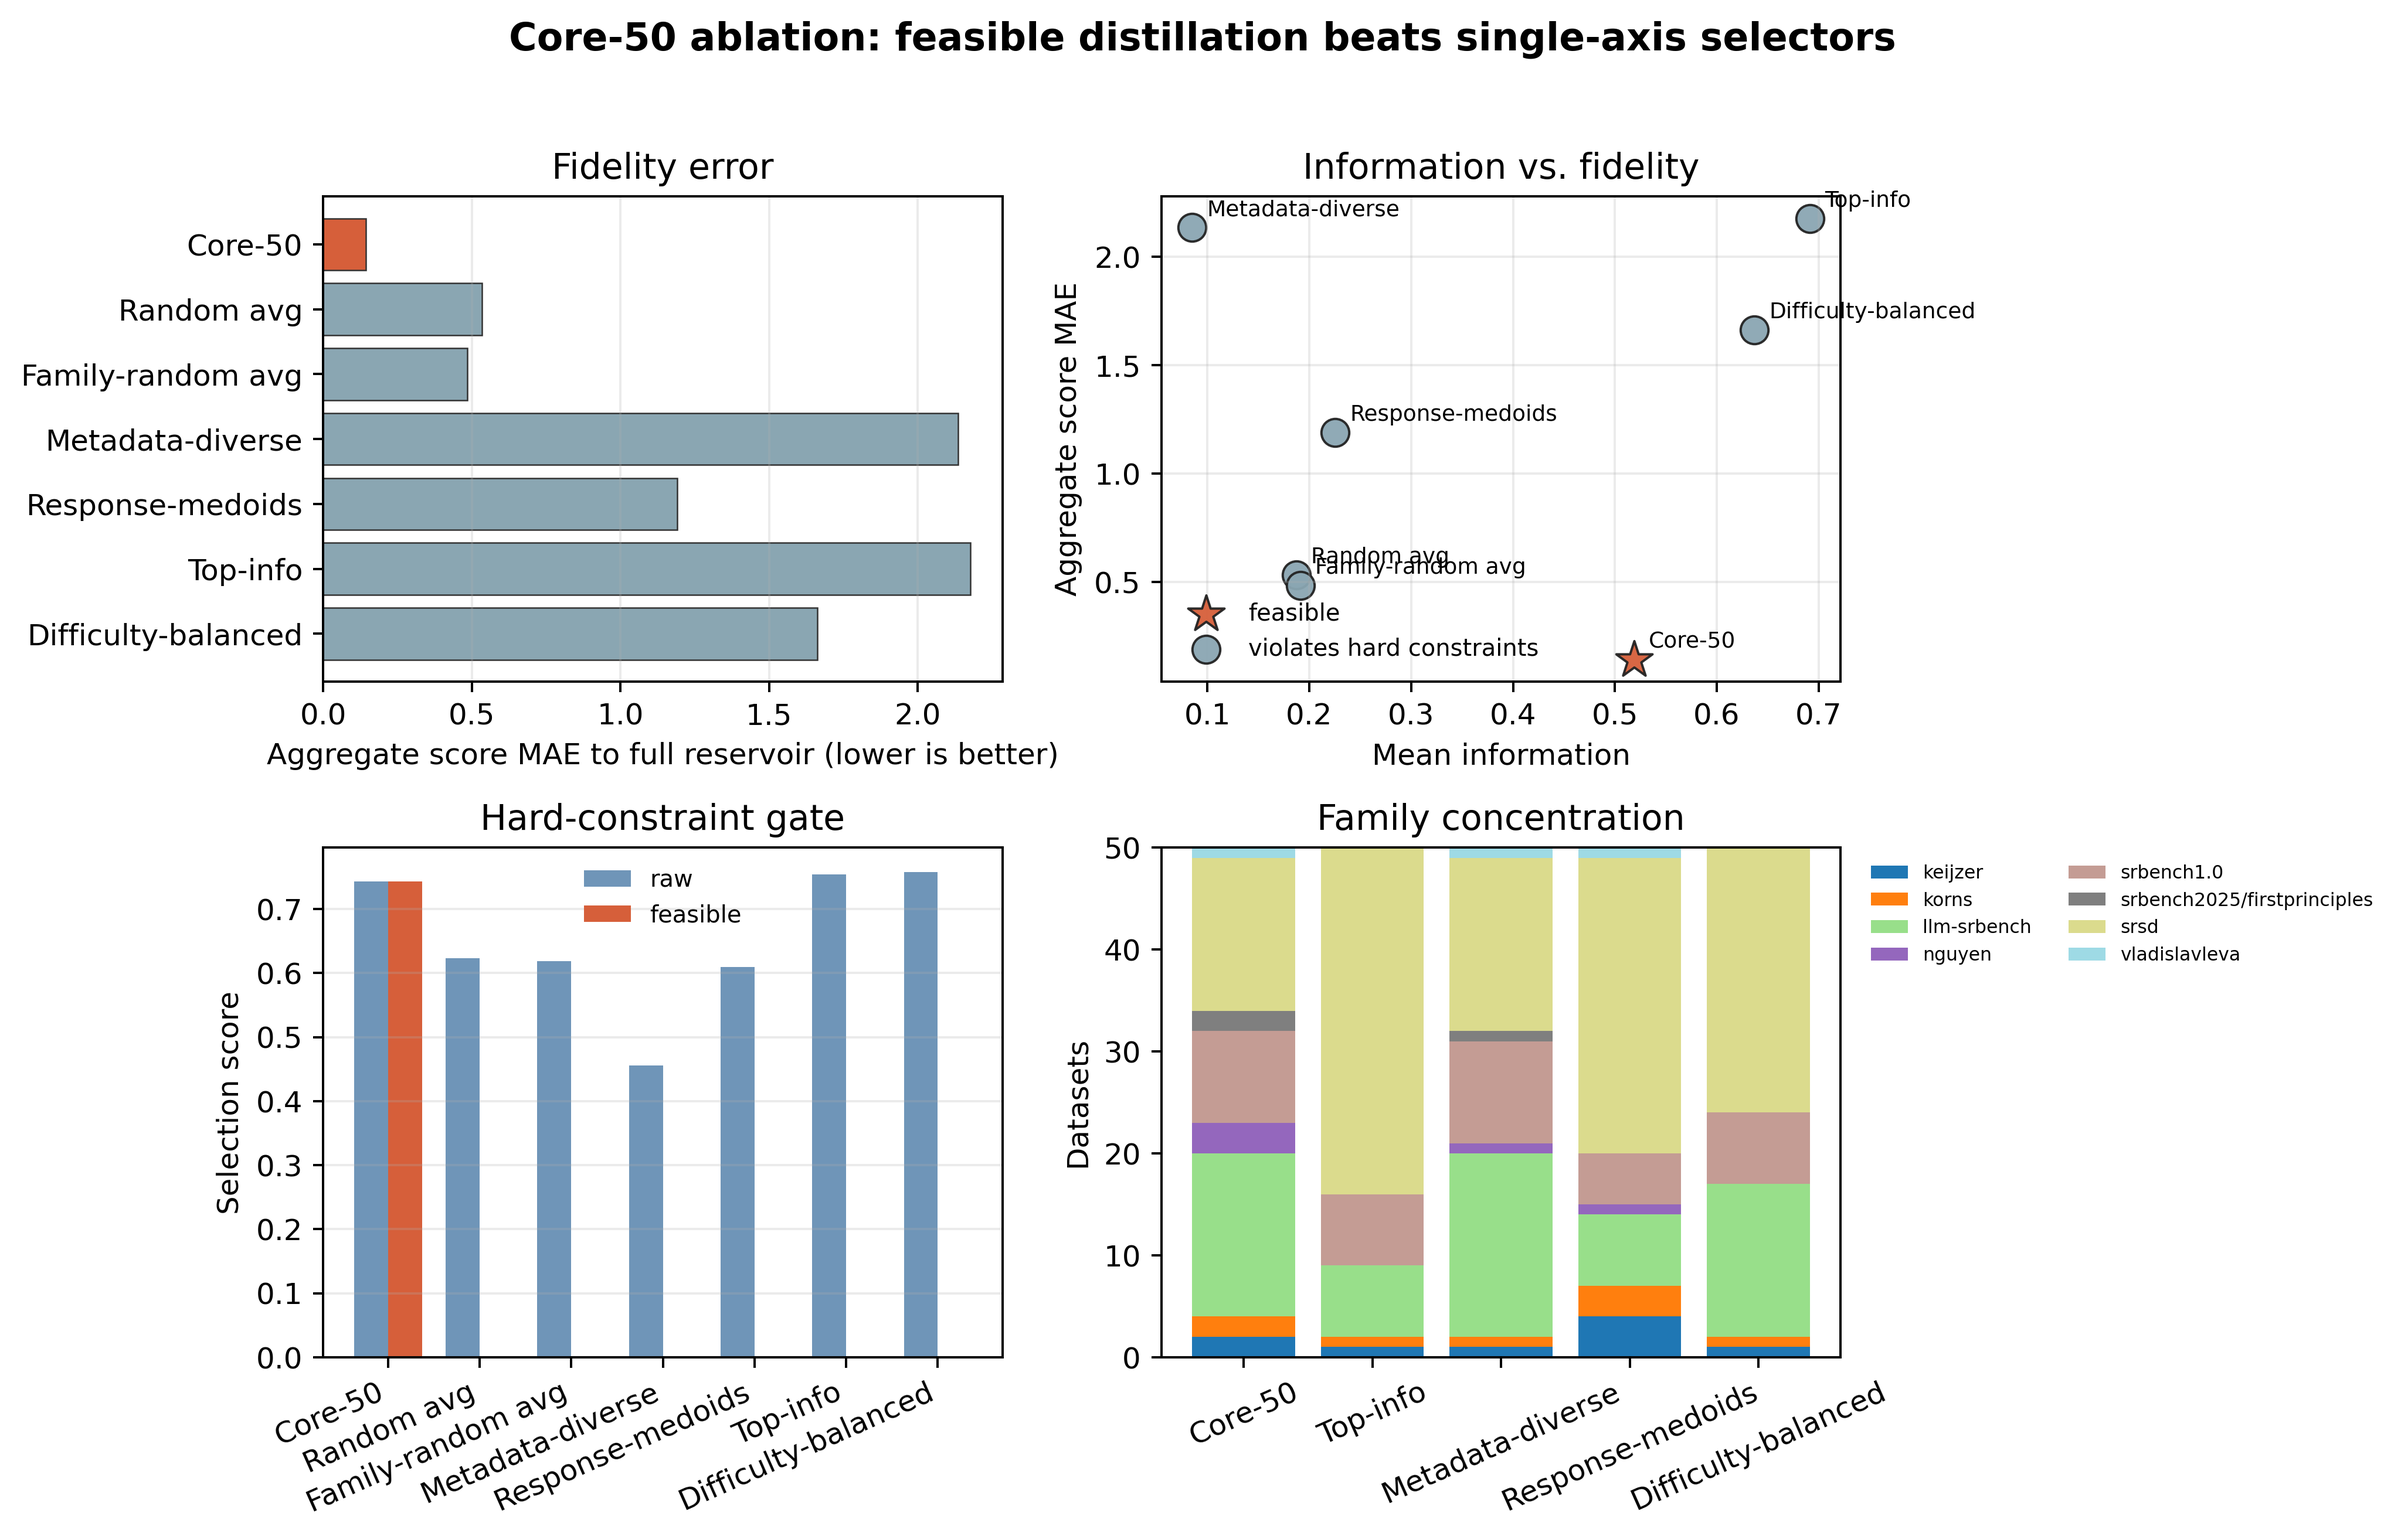
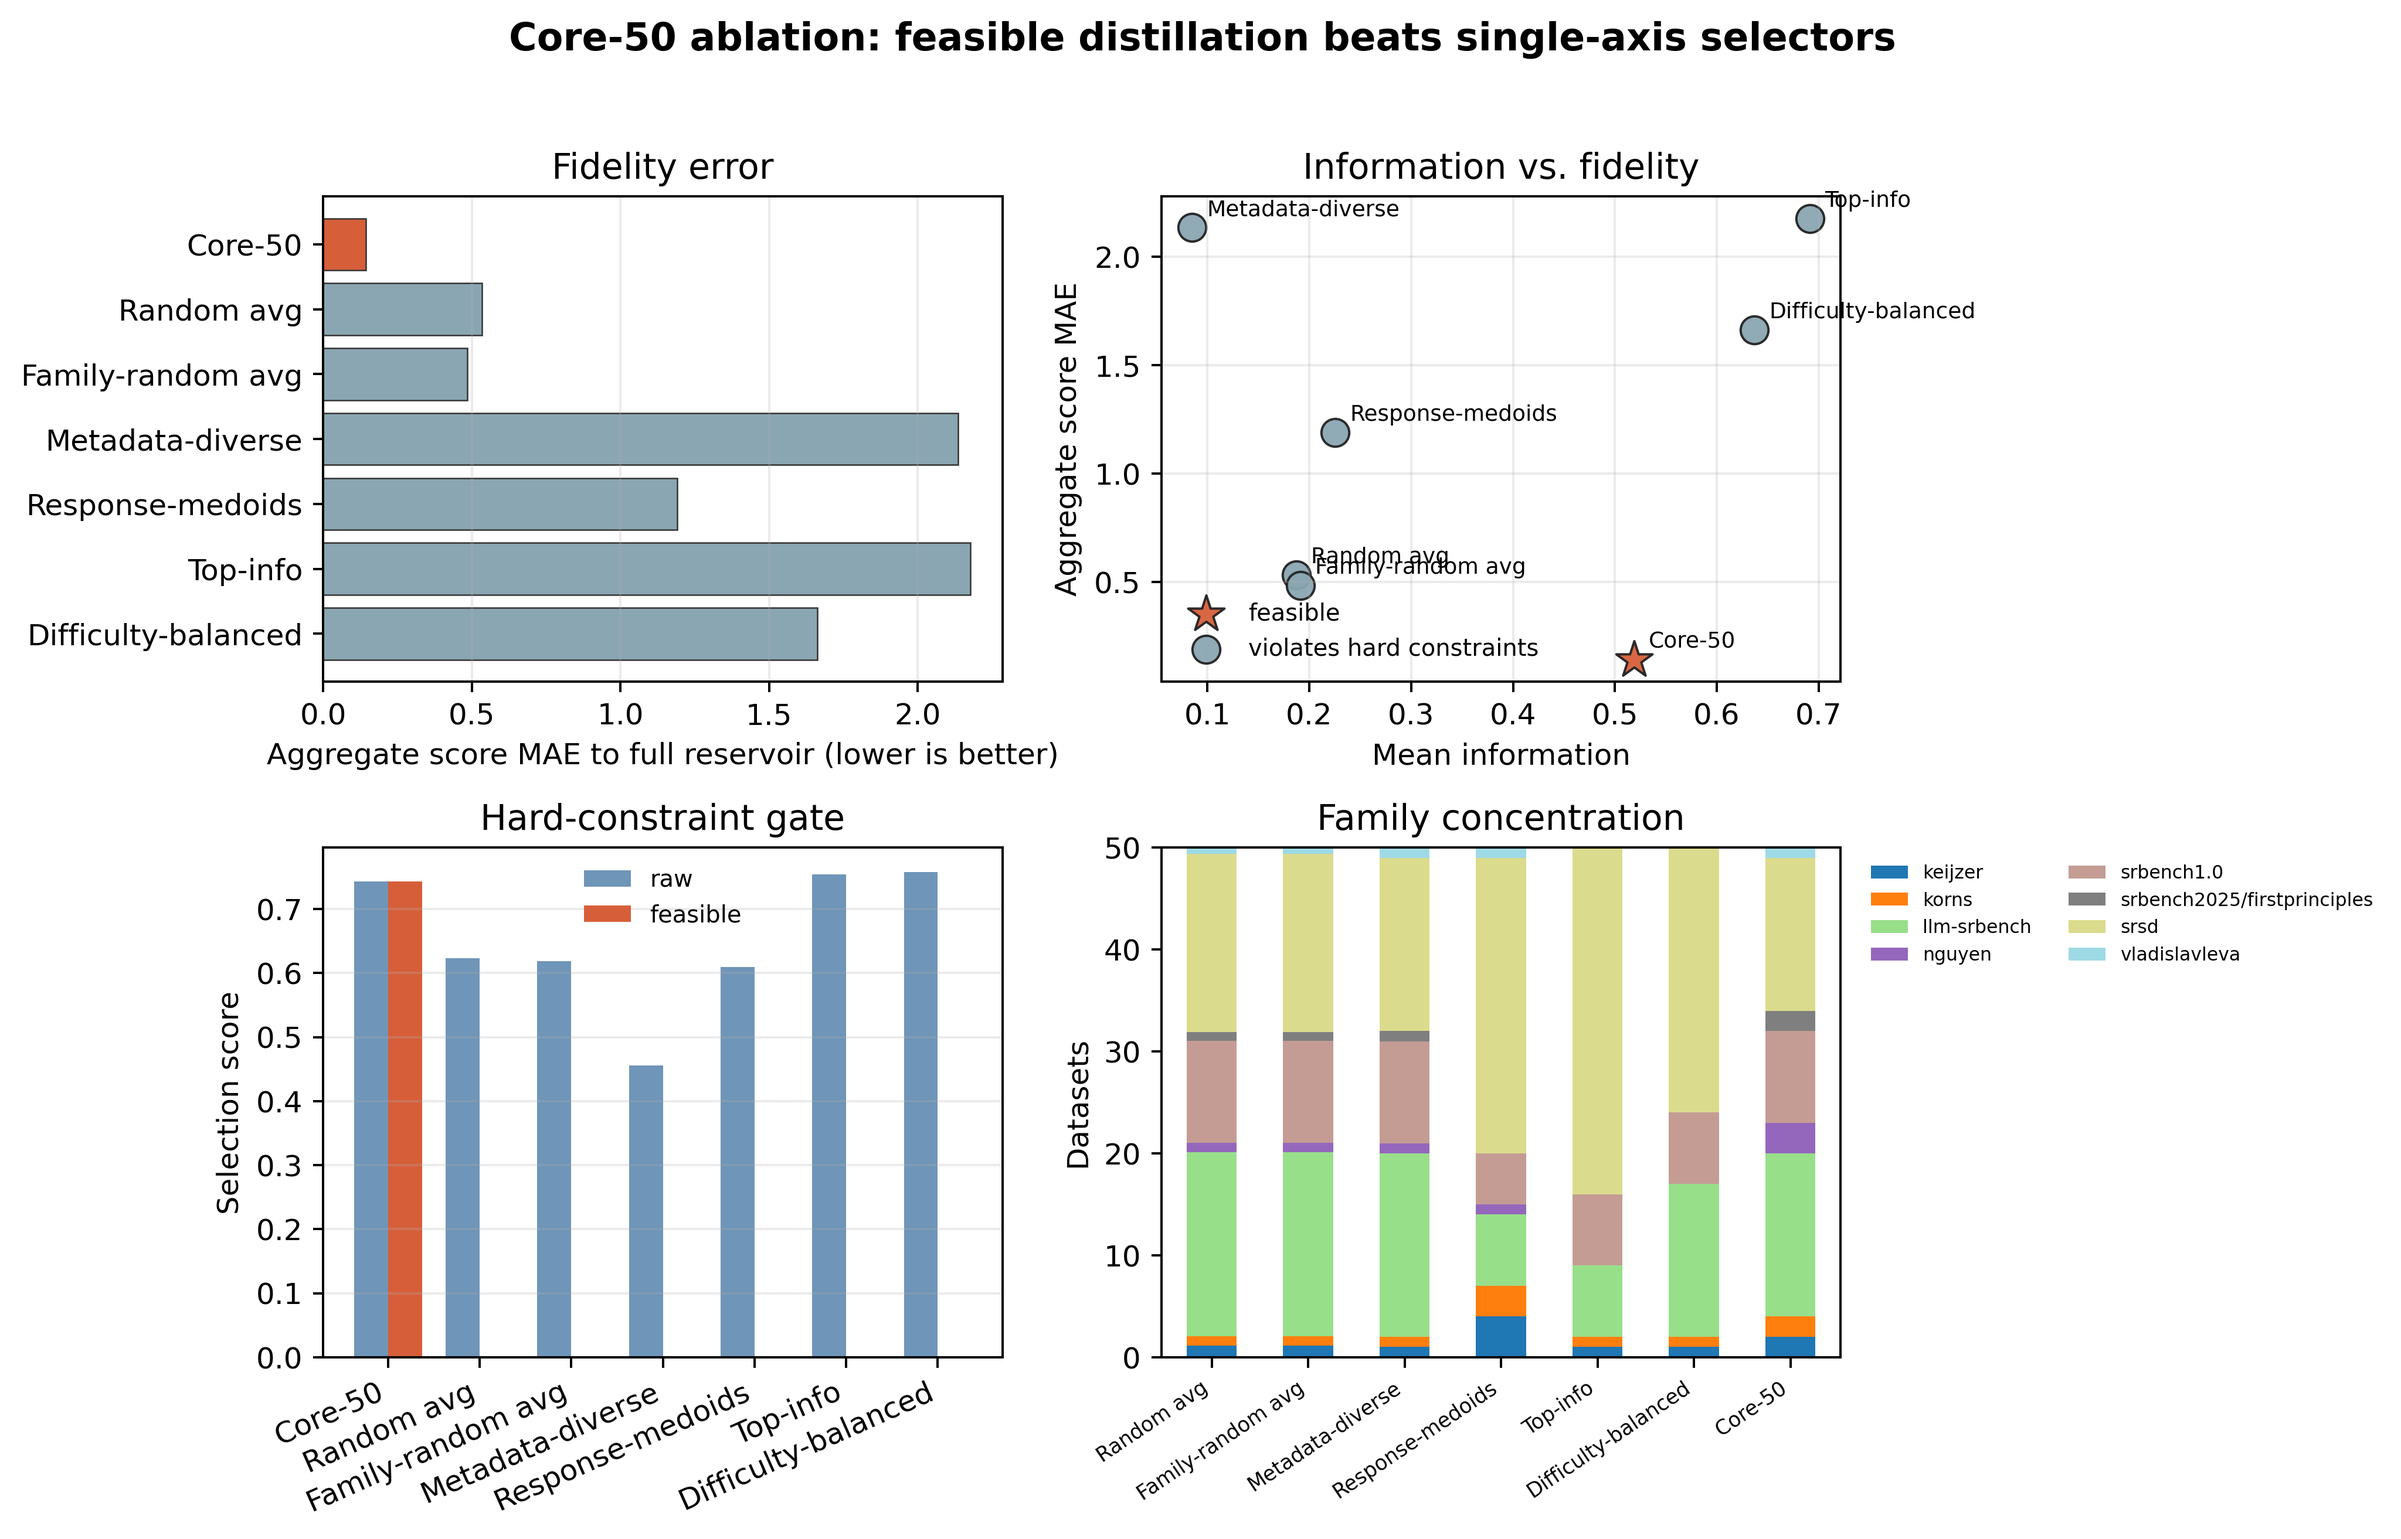
[update] 同步Core50 family分布图生成逻辑

Changed region(s): [[0.4652, 0.5308, 0.7753, 0.968]]

diff --git a/check/plot_core50_ablation_outputs.py b/check/plot_core50_ablation_outputs.py
@@ -223,7 +223,13 @@ def _relative_rows(metrics: pd.DataFrame) -> list[dict[str, Any]]:
 
 def _family_distribution(dataset_level: pd.DataFrame, subsets: dict[str, set[str]]) -> pd.DataFrame:
     rows: list[dict[str, Any]] = []
-    selected = ["Core-50", "top-info-50", "metadata-diverse-50", "response-kmedoids-50", "difficulty-balanced-50"]
+    full_counts = dataset_level["family"].astype(str).value_counts()
+    for subset in ["random-50 avg", "family-stratified random-50 avg"]:
+        for family, count in full_counts.items():
+            expected = float(50.0 * count / len(dataset_level))
+            rows.append({"subset": subset, "family": family, "count": expected, "fraction": expected / 50.0})
+
+    selected = ["metadata-diverse-50", "response-kmedoids-50", "top-info-50", "difficulty-balanced-50", "Core-50"]
     for subset in selected:
         ids = subsets[subset]
         sub = dataset_level[dataset_level["dataset_id"].astype(str).isin(ids)]
@@ -293,19 +299,31 @@ def _plot_ablation(metrics: pd.DataFrame, family_dist: pd.DataFrame) -> list[str
 
     ax = axes[1, 1]
     family_order = sorted(family_dist["family"].unique())
-    bottom = np.zeros(5)
-    subset_order = ["Core-50", "top-info-50", "metadata-diverse-50", "response-kmedoids-50", "difficulty-balanced-50"]
+    subset_order = [
+        "random-50 avg",
+        "family-stratified random-50 avg",
+        "metadata-diverse-50",
+        "response-kmedoids-50",
+        "top-info-50",
+        "difficulty-balanced-50",
+        "Core-50",
+    ]
+    x_family = np.arange(len(subset_order))
+    family_labels = [_display_name(s) for s in subset_order]
+    bottom = np.zeros(len(subset_order))
+    family_bar_width = 0.52
     family_colors = plt.cm.tab20(np.linspace(0, 1, len(family_order)))
     for color, family in zip(family_colors, family_order):
         vals = []
         for subset in subset_order:
             match = family_dist[(family_dist["subset"] == subset) & (family_dist["family"] == family)]
             vals.append(float(match["count"].iloc[0]) if not match.empty else 0.0)
-        ax.bar([_display_name(s) for s in subset_order], vals, bottom=bottom, label=family, color=color, linewidth=0)
+        ax.bar(x_family, vals, width=family_bar_width, bottom=bottom, label=family, color=color, linewidth=0)
         bottom += np.asarray(vals)
     ax.set_ylabel("Datasets")
     ax.set_title("Family concentration")
-    ax.tick_params(axis="x", rotation=24)
+    ax.set_xticks(x_family, family_labels, rotation=34, ha="right", fontsize=7.0)
+    ax.margins(x=0.04)
     ax.legend(frameon=False, fontsize=6.3, ncol=2, loc="upper left", bbox_to_anchor=(1.02, 1.0))
 
     fig.suptitle("Core-50 ablation: feasible distillation beats single-axis selectors", fontsize=13, fontweight="bold")
